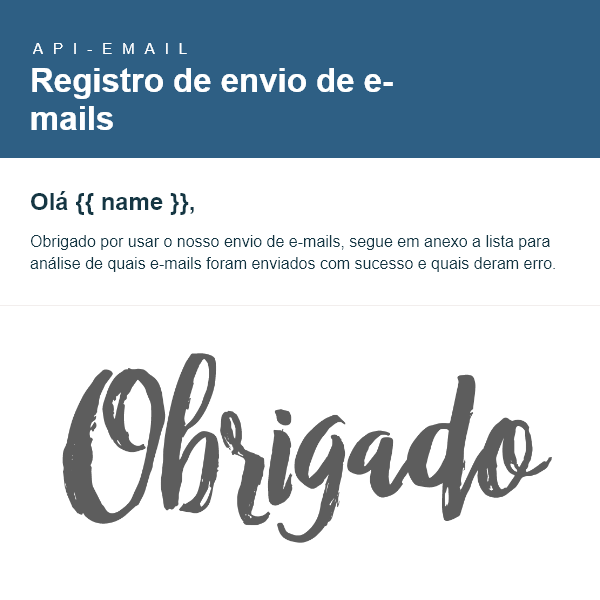
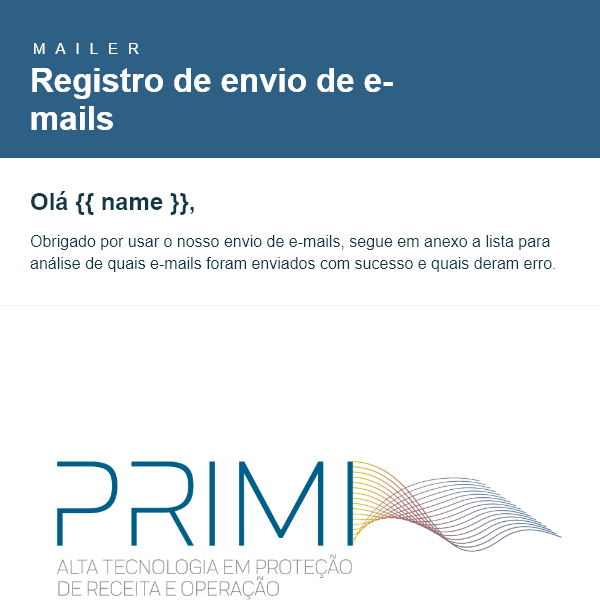
Write log Success

Changed region(s): [[0.09, 0.57, 0.93, 1.0], [0.06, 0.06, 0.3, 0.09]]

diff --git a/src/app/controller/MailController/utils.js b/src/app/controller/MailController/utils.js
@@ -80,14 +80,19 @@ export const mailValidate = ({
   }
 
   if (to) {
-    to = JSON.parse(to);
+    try {
+      to = JSON.parse(to);
 
-    to.forEach((toMail) => {
-      if (!toMail.email || toMail.email === '') {
-        errors.push(['O atributo mail de dentro de to está vazio']);
-        status = false;
-      }
-    });
+      to.forEach((toMail) => {
+        if (!toMail.email || toMail.email === '') {
+          errors.push(['O atributo mail de dentro de to está vazio']);
+          status = false;
+        }
+      });
+    } catch (error) {
+      errors.push(['Objeto json no atributo (to) mal formado']);
+      status = false;
+    }
   }
 
   if (!status) {
@@ -102,18 +107,16 @@ export const mailValidate = ({
   return { status };
 };
 
-export const deleteFiles = ({ template, filenames, log }) => {
-  let files;
-
-  files.log = log;
+export const deleteFiles = ({ template, filenames, nameLog }) => {
+  const files = {};
 
   if (template || filenames) {
     if (!template) {
       if (filenames !== undefined) {
-        files = { attachments: filenames };
+        files.attachments = filenames;
       }
     } else {
-      files = { template };
+      files.template = template;
 
       if (filenames !== undefined) {
         files.attachments = filenames;
@@ -121,7 +124,7 @@ export const deleteFiles = ({ template, filenames, log }) => {
     }
   }
 
-  console.log(files);
+  files.log = nameLog;
 
   return files;
 };

diff --git a/src/app/utils/index.js b/src/app/utils/index.js
@@ -81,13 +81,14 @@ export const generateImage = async (name) => {
 };
 
 export const writeLog = (data, name) => {
-  const pathLog = path.resolve('src', 'log', name);
+  const pathLog = path.join('src', 'log', name);
 
   const newLog = `
-    E-mail: ${data},
-    Date: ${new Date()},
-    Success: True
-    -------------------------------------\n\n
+    Para: ${data.element.to},\r\n
+    Assunto: ${data.element.subject},\r\n
+    Date: ${new Date()},\r\n
+    Enviado com sucesso! \r\n
+    -------------------------------------\r\n\r\n
   `;
 
   fs.appendFile(pathLog, newLog, (err) => {
@@ -95,15 +96,15 @@ export const writeLog = (data, name) => {
   });
 };
 
-export const writeNotLog = (queue, erro, name) => {
-  const pathLog = path.resolve('src', 'log', name);
+export const writeNotLog = (data, erro, name) => {
+  const pathLog = path.join('src', 'log', name);
 
   const newLog = `
-    Queue: ${queue},
-    Erro: ${erro},
-    Date: ${new Date()}
-    Success: False
-    -------------------------------------\n\n
+    Para: ${data.element.to},\r\n
+    Erro: ${erro},\r\n
+    Date: ${new Date()}\r\n
+    Deu falha ao enviar\r\n
+    -------------------------------------\r\n\r\n
   `;
 
   fs.appendFile(pathLog, newLog, (err) => {

diff --git a/src/app/controller/MailController/index.js b/src/app/controller/MailController/index.js
@@ -4,13 +4,15 @@ import SendEmail from '../../jobs/SendMail';
 import {
   apiResponse, apiErrorResponse,
 } from '../../utils/index';
-import { handlerEmail, mailValidate, deleteFiles, handleLog, handlerLogEmail } from './utils';
+import {
+  handlerEmail, mailValidate, deleteFiles, handleLog, handlerLogEmail,
+} from './utils';
 
 class MailController {
   async send(req, res) {
     let files;
     const {
-      name, template, from, to, subject, filenames, limit, delay_minutes,
+      name, template, from, to, subject, filenames, limit, delay_minutes, email_report,
     } = req.body;
 
     const canSend = mailValidate({
@@ -27,8 +29,8 @@ class MailController {
     }
 
     const nameLog = handleLog();
-
     const dataEmail = handlerEmail(req.body);
+    const dataLogEmail = handlerLogEmail(email_report, nameLog);
 
     let cont = 0;
     let delay = 0;
@@ -53,8 +55,6 @@ class MailController {
           }, delay);
         }
       });
-
-      const dataLogEmail = handlerLogEmail(from, nameLog);
 
       Queue.add(SendEmail.key, {
         log: nameLog,

diff --git a/src/lib/Queue.js b/src/lib/Queue.js
@@ -47,12 +47,14 @@ class Queue {
     });
   }
 
-  handleSuccess(job){
-    writeLog(job.data, job.data.log);
+  handleSuccess(job) {
+    if (!job.data.element.status) {
+      writeLog(job.data, job.data.log);
+    }
   }
 
   handleFailure(job, err) {
-    writeNotLog(job.queue.name, err.message, job.data.log);
+    writeNotLog(job.data, err.message, job.data.log);
   }
 }
 

diff --git a/src/app/jobs/SendMail.js b/src/app/jobs/SendMail.js
@@ -16,7 +16,7 @@ class SendMail {
     if (element.status) {
       setTimeout(() => {
         deleteFiles(element);
-      }, 10000);
+      }, 20000);
     }
   }
 }
